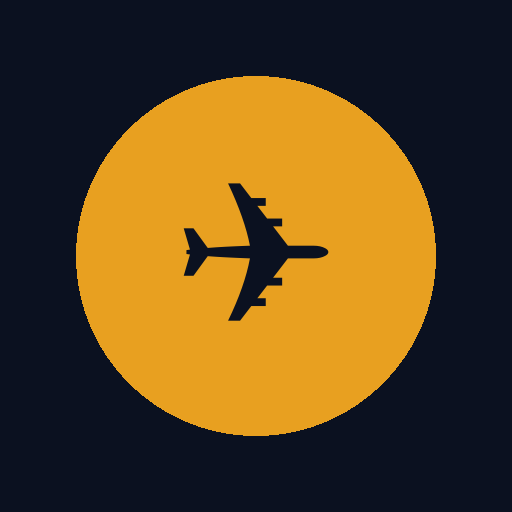
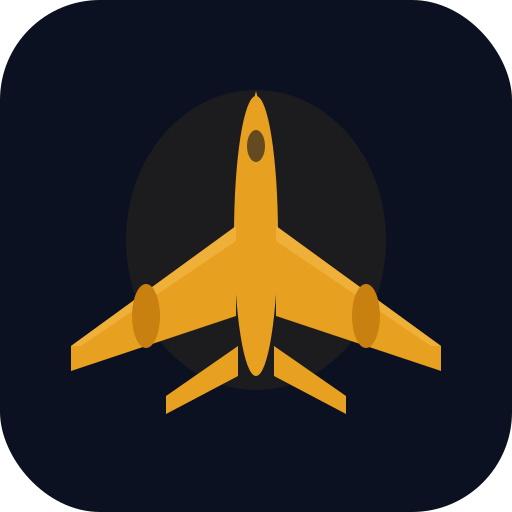
Polish brief form: fix departure label, optional catering, date in subject

diff --git a/index.html b/index.html
@@ -204,7 +204,7 @@
             <input type="date" id="date" required>
           </div>
           <div class="field">
-            <label for="time">Arrival Time</label>
+            <label for="time">Departure Time</label>
             <input type="time" id="time" required>
           </div>
         </div>
@@ -213,8 +213,8 @@
           <input type="number" id="fuel" min="1" max="9999" placeholder="0" required>
         </div>
         <div class="field">
-          <label for="catering">Catering</label>
-          <input type="text" id="catering" value="None">
+          <label for="catering">Catering <span style="font-weight:400;text-transform:none;letter-spacing:0;color:#3d4f6a">(optional)</span></label>
+          <input type="text" id="catering" placeholder="None">
         </div>
         <div class="divider"></div>
         <button type="submit">Send Brief to Banyan</button>
@@ -262,12 +262,18 @@
       return `${h12}:${pad(min)} ${ampm}`;
     }
 
+    function buildSubject() {
+      return dateEl.value
+        ? `N120KA – ${formatDate(dateEl.value)}`
+        : 'N120KA';
+    }
+
     function buildBody() {
       const date = dateEl.value;
       const time = timeEl.value;
       const fuel = fuelEl.value || '___';
       const catering = cateringEl.value.trim() || 'None';
-      return `Good ${getGreeting()},\n\nPlease have ${fuel} gallons of Jet-A ready for N120KA arriving at ${formatTime(time)} on ${formatDate(date)}. Catering: ${catering}.\n\nThank you,\nTim Eames`;
+      return `Good ${getGreeting()},\n\nN120KA is departing at ${formatTime(time)} on ${formatDate(date)}. Please have ${fuel} gallons of Jet-A ready. Catering: ${catering}.\n\nThank you,\nTim Eames`;
     }
 
     function updatePreview() {
@@ -283,7 +289,7 @@
     document.getElementById('form').addEventListener('submit', function (e) {
       e.preventDefault();
       const body = buildBody();
-      window.location.href = `mailto:[email redacted]?subject=N120KA&body=${encodeURIComponent(body)}`;
+      window.location.href = `mailto:[email redacted]?subject=${encodeURIComponent(buildSubject())}&body=${encodeURIComponent(body)}`;
     });
 
     if ('serviceWorker' in navigator) {